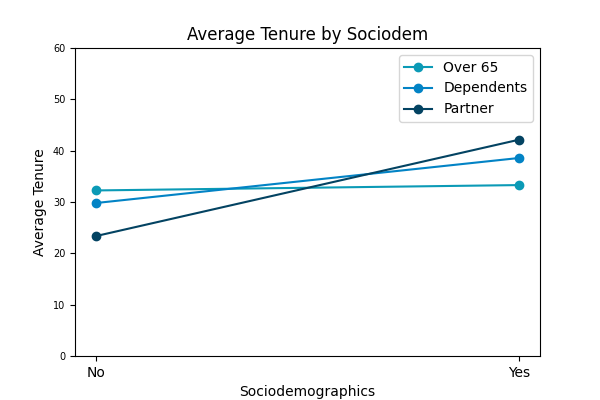
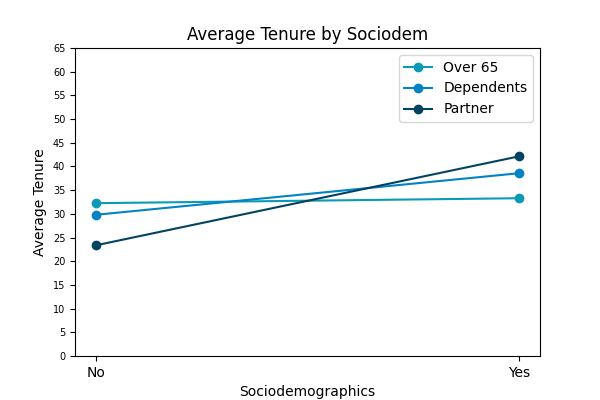
Updates.

diff --git a/templates/sociodem.html b/templates/sociodem.html
@@ -20,6 +20,7 @@
                 </div>
             </div>
         </div>
+
         <div>
             <p>Average monthly charges by churn and age group</p>
             <div class="container">
@@ -32,6 +33,23 @@
                     <div>
                         <img src="{{ url_for('static', filename='graphs/churn_by_age_group_monthly_mean_bar.png') }}"
                              alt="Bar of Age Group" class="graph">
+                    </div>
+                </div>
+            </div>
+        </div>
+
+        <div>
+            <p>Average total charges by churn and age group</p>
+            <div class="container">
+                <div>
+                    {% for key, value in by_age_group_total.items() %}
+                        <p>{{ key }} : {{ value }}</p>
+                    {% endfor %}
+                </div>
+                <div class="graph-frame">
+                    <div>
+                        <img src="{{ url_for('static', filename='graphs/churn_by_age_group_total_mean_bar.png') }}"
+                             alt="Bar of Age Group Total" class="graph">
                     </div>
                 </div>
             </div>
@@ -54,6 +72,7 @@
                 </div>
             </div>
         </div>
+
         <div>
             <p>Average monthly charges by churn and partnership</p>
             <div class="container">
@@ -66,6 +85,24 @@
                     <div>
                         <img src="{{ url_for('static', filename='graphs/churn_by_partner_monthly_mean_bar.png') }}"
                              alt="Bar of Partnership" class="graph">
+                    </div>
+                </div>
+            </div>
+        </div>
+        <br>
+
+        <div>
+            <p>Average total charges by churn and partnership</p>
+            <div class="container">
+                <div>
+                    {% for key, value in by_partner_total.items() %}
+                        <p>{{ key }} : {{ value }}</p>
+                    {% endfor %}
+                </div>
+                <div class="graph-frame">
+                    <div>
+                        <img src="{{ url_for('static', filename='graphs/churn_by_partner_total_mean_bar.png') }}"
+                             alt="Bar of Partnership Total" class="graph">
                     </div>
                 </div>
             </div>
@@ -105,6 +142,23 @@
                 </div>
             </div>
         </div>
+        <br>
+        <div>
+            <p>Average total charges by churn and dependents</p>
+            <div class="container">
+                <div>
+                    {% for key, value in by_dependents_total.items() %}
+                        <p>{{ key }} : {{ value }}</p>
+                    {% endfor %}
+                </div>
+                <div class="graph-frame">
+                    <div>
+                        <img src="{{ url_for('static', filename='graphs/churn_by_dependents_total_mean_bar.png') }}"
+                             alt="Bar of Dependents Total" class="graph">
+                    </div>
+                </div>
+            </div>
+        </div>
 
         <br>
         <h2>Averages by Sociodemographics</h2>
@@ -119,6 +173,13 @@
             <div>
                 <img src="{{ url_for('static', filename='graphs/monthly_charges_by_sociodem_line.png') }}"
                      alt="Average Monthly Charges by Sociodem" class="graph">
+            </div>
+        </div>
+    <br>
+            <div class="graph-frame">
+            <div>
+                <img src="{{ url_for('static', filename='graphs/total_charges_by_sociodem_line.png') }}"
+                     alt="Average Total Charges by Sociodem" class="graph">
             </div>
         </div>
 

diff --git a/templates/monthly_charges_model_summary.html b/templates/monthly_charges_model_summary.html
@@ -13,7 +13,7 @@
   <th>Date:</th>             <td>Wed, 24 Jul 2024</td> <th>  Prob (F-statistic):</th>  <td>  0.00</td>  
 </tr>
 <tr>
-  <th>Time:</th>                 <td>13:26:14</td>     <th>  Log-Likelihood:    </th> <td> -24334.</td> 
+  <th>Time:</th>                 <td>13:32:10</td>     <th>  Log-Likelihood:    </th> <td> -24334.</td> 
 </tr>
 <tr>
   <th>No. Observations:</th>      <td>  7032</td>      <th>  AIC:               </th> <td>4.868e+04</td>

diff --git a/templates/tenure_model_summary.html b/templates/tenure_model_summary.html
@@ -13,7 +13,7 @@
   <th>Date:</th>             <td>Wed, 24 Jul 2024</td> <th>  Prob (F-statistic):</th>  <td>  0.00</td>  
 </tr>
 <tr>
-  <th>Time:</th>                 <td>13:26:14</td>     <th>  Log-Likelihood:    </th> <td> -31667.</td> 
+  <th>Time:</th>                 <td>13:32:10</td>     <th>  Log-Likelihood:    </th> <td> -31667.</td> 
 </tr>
 <tr>
   <th>No. Observations:</th>      <td>  7032</td>      <th>  AIC:               </th> <td>6.335e+04</td>

diff --git a/templates/total_charges_model_summary.html b/templates/total_charges_model_summary.html
@@ -13,7 +13,7 @@
   <th>Date:</th>             <td>Wed, 24 Jul 2024</td> <th>  Prob (F-statistic):</th>  <td>  0.00</td>  
 </tr>
 <tr>
-  <th>Time:</th>                 <td>13:26:14</td>     <th>  Log-Likelihood:    </th> <td> -62500.</td> 
+  <th>Time:</th>                 <td>13:32:10</td>     <th>  Log-Likelihood:    </th> <td> -62500.</td> 
 </tr>
 <tr>
   <th>No. Observations:</th>      <td>  7032</td>      <th>  AIC:               </th> <td>1.250e+05</td>

diff --git a/graphs_generation.py b/graphs_generation.py
@@ -3,7 +3,7 @@ import numpy as np
 import squarify
 import seaborn as sns
 
-from functions import tenure, monthly_charges
+from functions import tenure, monthly_charges, total_charges
 
 
 def tenure_histogram(tenure_data):
@@ -94,7 +94,11 @@ def age_group_bar(age_group_data):
 
 
 def churn_by_age_group_monthly_mean_bar(mean_data):
-    churn_by_sociodem_monthly_mean_bar(mean_data, 'age group')
+    churn_by_sociodem_spends_mean_bar(mean_data, 'age group', 'monthly')
+
+
+def churn_by_age_group_total_mean_bar(mean_data):
+    churn_by_sociodem_spends_mean_bar(mean_data, 'age group', 'total')
 
 
 def partner_bar(partner_data):
@@ -102,7 +106,11 @@ def partner_bar(partner_data):
 
 
 def churn_by_partner_monthly_mean_bar(mean_data):
-    churn_by_sociodem_monthly_mean_bar(mean_data, 'partner')
+    churn_by_sociodem_spends_mean_bar(mean_data, 'partner', 'monthly')
+
+
+def churn_by_partner_total_mean_bar(mean_data):
+    churn_by_sociodem_spends_mean_bar(mean_data, 'partner', 'total')
 
 
 def dependents_bar(dependents_data):
@@ -110,15 +118,23 @@ def dependents_bar(dependents_data):
 
 
 def churn_by_dependents_monthly_mean_bar(mean_data):
-    churn_by_sociodem_monthly_mean_bar(mean_data, 'dependents')
+    churn_by_sociodem_spends_mean_bar(mean_data, 'dependents', 'monthly')
+
+
+def churn_by_dependents_total_mean_bar(mean_data):
+    churn_by_sociodem_spends_mean_bar(mean_data, 'dependents', 'total')
 
 
 def av_tenure_by_sociodem_line(sociodem_data):
-    av_by_sociodem_line(sociodem_data, 'tenure', tenure())
+    av_by_sociodem_line(sociodem_data, 'tenure', tenure(),5)
 
 
 def av_monthly_charges_by_sociodem_line(sociodem_data):
-    av_by_sociodem_line(sociodem_data, 'monthly charges', monthly_charges())
+    av_by_sociodem_line(sociodem_data, 'monthly charges', monthly_charges(),10)
+
+
+def av_total_charges_by_sociodem_line(sociodem_data):
+    av_by_sociodem_line(sociodem_data, 'total charges', total_charges(),500)
 
 
 def phone_bar(phone_data):
@@ -252,7 +268,7 @@ def three_bars(data, name, labels):
     plt.close()
 
 
-def churn_by_sociodem_monthly_mean_bar(mean_data, name):
+def churn_by_sociodem_spends_mean_bar(mean_data, name, spend_period):
     data = dict(sorted(mean_data.items(), key=lambda item: item[1]))
 
     labels = list(data.keys())
@@ -270,14 +286,14 @@ def churn_by_sociodem_monthly_mean_bar(mean_data, name):
 
     plt.xticks(fontsize=7)
     plt.yticks(fontsize=7)
-    plt.title(f'Share of average monthly charges\nby churn and {name}')
+    plt.title(f'Share of average {spend_period} charges\nby churn and {name}')
     plt.tight_layout()
 
-    plt.savefig(f'static/graphs/churn_by_{name.replace(" ", "_")}_monthly_mean_bar.png')
+    plt.savefig(f'static/graphs/churn_by_{name.replace(" ", "_")}_{spend_period}_mean_bar.png')
     plt.close()
 
 
-def av_by_sociodem_line(sociodem_data, name, data_function):
+def av_by_sociodem_line(sociodem_data, name, data_function, y_tick_width):
     plt.figure(figsize=(6, 4))
     color = ['#0B9AB6', '#0283C5', '#034362']
 
@@ -289,7 +305,7 @@ def av_by_sociodem_line(sociodem_data, name, data_function):
     plt.xlabel('Sociodemographics')
     plt.ylabel(f'Average {name.title()}')
     plt.xticks(ticks=[0, 1], labels=['No', 'Yes'])
-    y_ticks = np.arange(0, data_function.iloc[-1] + 1, 10)
+    y_ticks = np.arange(0, data_function.iloc[-1] + 1, y_tick_width)
     plt.yticks(ticks=y_ticks, labels=[str(int(round(tick))) for tick in y_ticks])
     plt.yticks(fontsize=7)
     plt.legend()

diff --git a/functions.py b/functions.py
@@ -33,8 +33,8 @@ def total_charges():
 def summary_statistics(variable):
     variable_mean = round(data[variable].mean(), 1)
     variable_median = round(data[variable].median(), 1)
-    variable_min = round(data[variable].min(),1)
-    variable_max = round(data[variable].max(),1)
+    variable_min = round(data[variable].min(), 1)
+    variable_max = round(data[variable].max(), 1)
     variable_q1 = round(data[variable].quantile(0.25), 1)
     variable_q3 = round(data[variable].quantile(0.75), 1)
     variable_std = round(data[variable].std(), 1)
@@ -130,8 +130,15 @@ def age_group():
 
 
 def churn_by_age_group_monthly_mean():
-    mean = data.groupby(['Churn', 'Senior_Citizen'])['Monthly_Charges'].mean()
+    return churn_by_age_group_spend_mean('Monthly_Charges')
 
+
+def churn_by_age_group_total_mean():
+    return churn_by_age_group_spend_mean('Total_Charges')
+
+
+def churn_by_age_group_spend_mean(variable):
+    mean = data.groupby(['Churn', 'Senior_Citizen'])[variable].mean()
     by_mean = {
         'Active & Age < 65': round(list(mean)[0], 2),
         'Active & Age > 65': round(list(mean)[1], 2),
@@ -165,8 +172,15 @@ def partner():
 
 
 def churn_by_partner_monthly_mean():
-    mean = data.groupby(['Churn', 'Partner'])['Monthly_Charges'].mean()
+    return churn_by_partner_spends_mean('Monthly_Charges')
 
+
+def churn_by_partner_total_mean():
+    return churn_by_partner_spends_mean('Total_Charges')
+
+
+def churn_by_partner_spends_mean(variable):
+    mean = data.groupby(['Churn', 'Partner'])[variable].mean()
     by_mean = {
         'Active & Has no partner': round(list(mean)[0], 2),
         'Active & Has partner': round(list(mean)[1], 2),
@@ -200,15 +214,21 @@ def dependents():
 
 
 def churn_by_dependents_monthly_mean():
-    mean = data.groupby(['Churn', 'Dependents'])['Monthly_Charges'].mean()
+    return churn_by_dependents_spends_mean('Monthly_Charges')
 
+
+def churn_by_dependents_total_mean():
+    return churn_by_dependents_spends_mean('Total_Charges')
+
+
+def churn_by_dependents_spends_mean(variable):
+    mean = data.groupby(['Churn', 'Dependents'])[variable].mean()
     by_mean = {
         'Active & Has no dependents': round(list(mean)[0], 2),
         'Active & Has dependents': round(list(mean)[1], 2),
         'Terminated & Has no dependents': round(list(mean)[2], 2),
         'Terminated & Has dependents': round(list(mean)[3], 2)
     }
-
     return by_mean
 
 
@@ -221,10 +241,17 @@ def av_tenure_by_sociodem():
 
 
 def av_monthly_charges_by_sociodem():
-    av_age = data.groupby('Senior_Citizen')['Monthly_Charges'].mean()
-    av_dependents = data.groupby('Dependents')['Monthly_Charges'].mean()
-    av_partner = data.groupby('Partner')['Monthly_Charges'].mean()
+    return av_spends_by_sociodem('Monthly_Charges')
 
+
+def av_total_charges_by_sociodem():
+    return av_spends_by_sociodem('Total_Charges')
+
+
+def av_spends_by_sociodem(variable):
+    av_age = data.groupby('Senior_Citizen')[variable].mean()
+    av_dependents = data.groupby('Dependents')[variable].mean()
+    av_partner = data.groupby('Partner')[variable].mean()
     return av_age, av_dependents, av_partner
 
 

diff --git a/app.py b/app.py
@@ -62,12 +62,18 @@ def sociodem_page():
     dependents_bar(dependents_data)
 
     by_age_group = churn_by_age_group_monthly_mean()
+    by_age_group_total = churn_by_age_group_total_mean()
     by_partner = churn_by_partner_monthly_mean()
+    by_partner_total = churn_by_partner_total_mean()
     by_dependents = churn_by_dependents_monthly_mean()
+    by_dependents_total = churn_by_dependents_total_mean()
 
     churn_by_age_group_monthly_mean_bar(by_age_group)
+    churn_by_age_group_total_mean_bar(by_age_group_total)
     churn_by_partner_monthly_mean_bar(by_partner)
+    churn_by_partner_total_mean_bar(by_partner_total)
     churn_by_dependents_monthly_mean_bar(by_dependents)
+    churn_by_dependents_total_mean_bar(by_dependents_total)
 
     tenure_by_sociodem = av_tenure_by_sociodem()
     av_tenure_by_sociodem_line(tenure_by_sociodem)
@@ -75,13 +81,20 @@ def sociodem_page():
     charges_by_sociodem = av_monthly_charges_by_sociodem()
     av_monthly_charges_by_sociodem_line(charges_by_sociodem)
 
+    total_charges_by_sociodem = av_total_charges_by_sociodem()
+    av_total_charges_by_sociodem_line(total_charges_by_sociodem)
+
     return render_template('sociodem.html',
                            age_group_stat=age_group_stat,
                            partner_stat=partner_stat,
                            dependents_stat=dependents_stat,
                            by_age_group=by_age_group,
+                           by_age_group_total=by_age_group_total,
                            by_dependents=by_dependents,
-                           by_partner=by_partner)
+                           by_dependents_total=by_dependents_total,
+                           by_partner=by_partner,
+                           by_partner_total=by_partner_total,
+                           )
 
 
 @app.route('/services', methods=['GET'])
